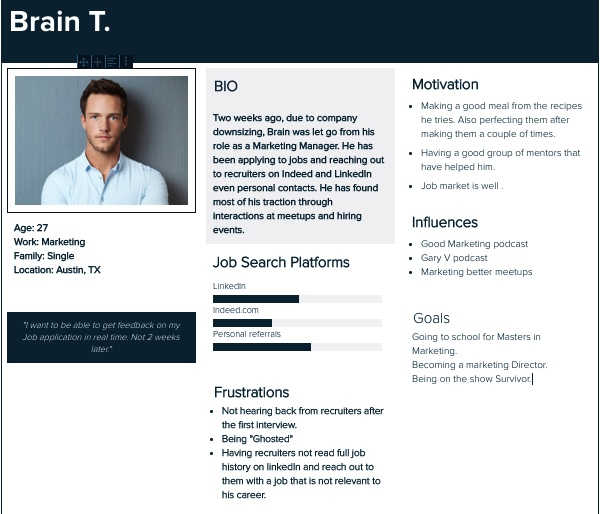
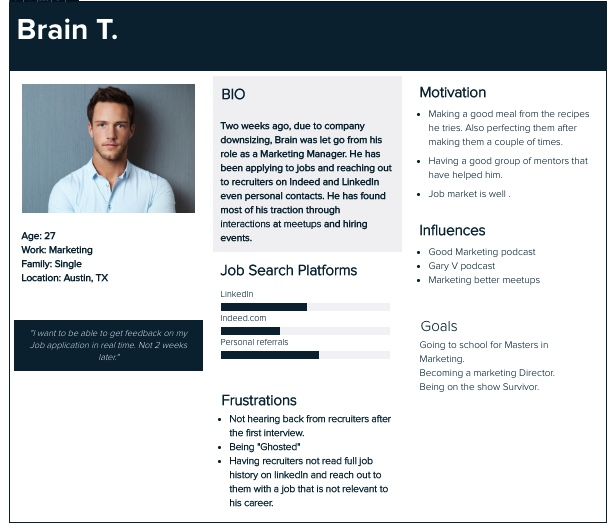
Content on Cambio page

Changed region(s): [[0.0, 0.0, 1.0, 1.0], [0.66, 0.5914, 0.9, 0.7471], [0.66, 0.4047, 0.87, 0.5603]]

diff --git a/cambio.html b/cambio.html
@@ -25,7 +25,7 @@
         <div class="links d-flex align-items-center">
           <ul class="list-group list-group-horizontal">
             <li>
-              <a href="#work">Projects</a>
+              <a href="#work">Work</a>
             </li>
             <li>
               <a href="#about">About Me</a>
@@ -37,8 +37,100 @@
         </div>
       </nav>
 
-      <div>
+      <div class="cambio-content">
+        <div id="intro">
+          <h1>Cambio</h1>
+          <h3>UX Research & UI Design</h3>
+          <img src="images/cambio_logo.png" alt="Cambio Logo">
+          <div>
+            <h2>Introduction</h2>
+            <p>In recent years, employers and job seekers have seen major changes to recruiting. Job seekers can search digital job boards, post their resumes across dozens of sites, and reach out directly to recruiters on websites like AngelList and LinkedIn. However, for recruiters, with the exception of LinkedIn where they can reach out directly to promising candidates, not much has changed. Instead of reviewing paper resumes, they are now seeing hundreds of digital resumes and profiles. With all the advances in technology, true life and personality has been left out of the hiring process. Cambio looks to change the job hunt and bring individuality into the recruitment process. In Spanish, Cambio means “change”. In an effort to change the stale process, Cambio has created a video platform to allow each job applicant to personalize their application. </p>
+          </div>
+        </div>
+
+        <div id="challenge">
+          <h2>Challenge</h2>
+          <p>A 3 week sprint we were asked to research and design an initial mockup, for the job seeker side of the mobile application, with swipe features and video recording features.  My team consisted of an engineering manager, two front-end developers, and a member of the marketing team.</p>
+        </div>
         
+        <div id="research">
+          <h2>Research</h2>
+          <h3>Explore</h3>
+          <p>Cambio was drawn to the easy swiping features being utilized in dating apps like Tinder and Bumble. They liked the ease in which a user can quickly choose between two possible interactions. I set out to understand what made the swiping interaction a powerful tool and how it could be applied to users looking for their next career opportunity.</p>
+          <h3>Listen</h3>
+          <p>I created a 15 question survey to better understand the pain points of job seekers and hiring managers. In total, 60 people were surveyed: 30 job seekers and 30 members of hiring teams.</p>
+          <h3>Synthasizes</h3>
+          <p>We created an affinity map to analyze the data from the survey. 
+          Key takeaways from job seekers:</p>
+          <ul>
+            <li>&#8227; Users said ATS systems are a dead end.</li>
+            <li>&#8227; Users said meeting an employee of a potential company at an event or meetup provides a better opportunity into their hiring process.</li>
+            <li>&#8227; Users said resumes do not adequately depict everything they have to offer an employer.</li>
+            <li>&#8227; Users are frustrated when they do not hear back from a job application.</li>
+            <li>&#8227; Users are frustrated when they do not receive valuable feedback after an interview.</li>
+          </ul>
+        </div>
+
+        <div>
+          <h2>User</h2>
+          <ul>
+            <li>Name: Brian T.</li>
+            <li>Age: 25</li>
+            <li>Location: Austin, TX.</li>
+            <li>Industry: Marketing</li>
+          </ul>
+          <img src="images/cambio_user_persona.jpg" alt="Cambio User Persona">
+          <p>In order to frame the conversation with my team, I created Brian. Two weeks ago, due to company downsizing, Brain was let go from her role as a Marketing Manager. He has been applying to jobs and reaching out to recruiters on Indeed and LinkedIn. She is receiving generic rejection letters from ATS systems and rarely does she receive any reply from recruiters.</p>
+        </div>
+
+        <div id="design-principles">
+          <h2>Design Principles</h2>
+          <div class="d-flex justify-content-between">
+            <div>
+              <h4>Empathize</h4>
+              <p>Users will feel vulnerable upon uploading a video of themselves. User information should be private and secure.</p>
+            </div>
+            <div>
+              <h4>Simple</h4>
+              <p>The signup should be free of clutter and relatively quick.Users should be applying to jobs shortly after signing up for an account. Applying to jobs should be easy.</p>
+            </div>
+            <div>
+              <h4>Empowerment</h4>
+              <p>Users should have control of their job search. Profiles should be tailored to their preferences. Users should have the ability to present more than just words on a screen.</p>
+            </div>
+          </div>
+        </div>
+
+        <div id="wireframes">
+          <h2>Wireframes</h2>
+          <h3>Taskflow</h3>
+          <div>
+            <img src="" alt="">
+            <p>We three different paths for the task flow of new users interacting with the app for the first time: Onboarding, uploading personal videos and browsing jobs.</p>
+          </div>
+          <h3>Lo-Fi</h3>
+          <div>
+            <img src="" alt="">
+            <p>We three different paths for the task flow of new users interacting with the app for the first time: Onboarding, uploading personal videos and browsing jobs.</p>
+          </div>
+        </div>
+
+        <div>
+          <h2>Style Expoloration</h2>
+          <p>After doing visual competitive analysis and doing a couple of moodboards we came up with this style tile to establish the identity of the brand and for our High fidelity mockups. Keeping our design principles in mind we wanted to come with a style that felt Empowering, Simple and Empathetic.</p>
+          <img src="" alt="">
+          <h3>Prototype & Testing</h3>
+          <p>Applying the UI elements we came up with 2 concepts that the user could identify and as their favorite and pick a winner from those 2.</p>
+          <img src="" alt="">
+          <h3>Refine & Ideate</h3>
+          <p>With each concept the user was able to stay in line with out design principle. Based on our feedback I went and identified other key concepts the could brushed up on using our design principles. Choosing the success message for creating and active profile and profile page.</p>
+        </div>
+
+        <div id="results">
+          <h3>Results</h3>
+          <img src="images/cambio_homepage.jpg" alt="Cambio home page">
+          <img src="images/cambio_aboutpage.jpg" alt="Cambio about page">
+        </div>
       </div>
         
     

diff --git a/index.html b/index.html
@@ -21,7 +21,6 @@
     <link rel="icon" type="image/png" sizes="32x32" href="./favicon-32x32.png">
     <link rel="icon" type="image/png" sizes="16x16" href="./favicon-16x16.png">
   </head>
-  <querySelector>
     <!--[if lt IE 7]>
       <p class="browsehappy">You are using an <strong>outdated</strong> browser. Please <a href="#">upgrade your browser</a> to improve your experience.</p>
     <![endif]-->
@@ -34,7 +33,7 @@
         <div class="links d-flex align-items-center">
           <ul class="list-group list-group-horizontal">
             <li>
-              <a href="#work">Projects</a>
+              <a href="#work">Work</a>
             </li>
             <li>
               <a href="#about">About Me</a>
@@ -102,6 +101,9 @@
       </div>
 
       <div id="footer">
+        <a href="index.html">
+          <svg xmlns="http://www.w3.org/2000/svg" viewBox="0 0 259.55 390.57"><title>Fergi3ink Logo</title><path d="M158.4,154.68H64.5V78.75h102V1.64H2v355.9H64.5V230.6h93.9ZM48.78,340.93h-31V18.25l31,43.89Z" transform="translate(-2.04 -1.64)"/><path d="M190.07,305.1c7.51-7.42,12.23-19.79,12.23-29.44,0-21.28-15.66-41.82-41.62-41.82-21.88,0-40.55,20.29-40.55,43.8v3.46h31.54v-3.46c0-5.94,3.65-10.64,9-10.64,5.58,0,9.87,4.7,9.87,10.64,0,6.18-3.86,13.86-11.37,13.86h-6.87v33.65h7.3c9.44,0,17.38,4.7,17.38,16.08,0,10.89-7.51,18.31-17.38,18.31-9,0-17-7.42-17-18.31v-4H112.19v4c0,28.46,21,51,47.42,51,29.39,0,48.06-24.5,48.06-49.49A47.45,47.45,0,0,0,190.07,305.1Zm-30.46-45.28a16.78,16.78,0,0,0-15.45,13.12H128.29c2.14-17.57,14.8-30.69,31.32-30.94Zm-.86,125c-20.81-.74-38.19-18.31-39-40.58h15.66c1.08,12.87,10.73,22.52,23.39,23.26Z" transform="translate(-2.04 -1.64)"/><path d="M219.54,99.72V357.91h42V99.72ZM251,345.86H230.12V253.77H251Z" transform="translate(-2.04 -1.64)"/></svg>
+        </a>
         <p>
           <a href="https://www.linkedin.com/in/samanthafergus/" target="_blank">LinkedIn</a> 
           | 

diff --git a/styles/cambio.css b/styles/cambio.css
@@ -18,6 +18,14 @@ h2 {
   font-weight: 700;
 }
 
+svg {
+  background-color: #113A83;
+  fill: #FFFFFF;
+  padding: 0.5em;
+  height: 4.25em;
+  width: 3.5em;
+}
+
 nav {
   background-color: #F5D547;
   color: #113A83;
@@ -25,13 +33,6 @@ nav {
   position: fixed;
   width: 100%;
   z-index: 5;
-}
-nav svg {
-  background-color: #113A83;
-  fill: #FFFFFF;
-  padding: 0.5em;
-  height: 4.25em;
-  width: 3.5em;
 }
 nav .links ul {
   list-style: none;
@@ -49,7 +50,48 @@ nav .links a {
 #footer {
   background-color: #F5D547;
   color: #113A83;
-  padding: 3em;
+  padding: 0 2em;
+}
+
+.cambio-content {
+  padding-top: 4em;
+}
+.cambio-content > div {
+  border-bottom: 0.25em solid #F5D547;
+  padding: 2em;
+  text-align: center;
+}
+.cambio-content ul {
+  list-style-type: none;
+  padding: 0;
+}
+
+#intro div {
+  padding: 2em;
+}
+#intro img {
+  width: 25%;
+}
+
+#challenge {
+  background-color: #F5D547;
+}
+
+#research ul {
+  text-align: left;
+  margin-left: auto;
+  margin-right: auto;
+  width: 60%;
+}
+
+#design-principles div div {
+  width: 25%;
+}
+
+#results img {
+  display: block;
+  margin-left: auto;
+  margin-right: auto;
 }
 
 /*# sourceMappingURL=cambio.css.map */

diff --git a/styles/cambio.scss b/styles/cambio.scss
@@ -1,1 +1,59 @@
 @import 'base';
+
+.cambio-content {
+  padding-top: 4em;
+
+  & > div {
+    border-bottom: $font-size--xsmall solid $color--one;
+    padding: $space--base;
+    text-align: center;
+  }
+
+  ul {
+    list-style-type: none;
+    padding: 0;
+  }
+}
+
+#intro {
+  
+  // margin: 0 $space--base;
+
+  div {
+    padding: $space--base;
+  }
+
+  img {
+    width: 25%;
+  }
+}
+
+#challenge {
+  background-color: $color--one;
+}
+
+#research {
+  ul {
+    text-align: left;
+
+    margin-left: auto;
+    margin-right: auto;
+    width: 60%;
+  }
+}
+
+#design-principles {
+  div div {
+    width: 25%;
+  }
+}
+
+#results {
+  img {
+    display: block;
+    margin-left: auto;
+    margin-right: auto;
+  }
+}
+
+

diff --git a/styles/_base.scss b/styles/_base.scss
@@ -42,6 +42,15 @@ h2 {
   font-weight: 700; 
 }
 
+svg {
+  background-color: $color--three;
+  fill: $color--white;
+  
+  padding: $space--small;
+  height: 4.25em;
+  width: 3.5em;
+}
+
 nav {
   background-color: $color--one;
   color: $color--three;
@@ -50,15 +59,6 @@ nav {
   position: fixed;
   width: 100%;
   z-index: 5;
-
-  svg {
-    background-color: $color--three;
-    fill: $color--white;
-    
-    padding: $space--small;
-    height: 4.25em;
-    width: 3.5em;
-  }
 
   .links {
     ul {
@@ -83,5 +83,5 @@ nav {
   background-color: $color--one;
   color: $color--three;
 
-  padding: 3em;
+  padding: 0 $space--base;
 }

diff --git a/styles/style.css b/styles/style.css
@@ -18,6 +18,14 @@ h2 {
   font-weight: 700;
 }
 
+svg {
+  background-color: #113A83;
+  fill: #FFFFFF;
+  padding: 0.5em;
+  height: 4.25em;
+  width: 3.5em;
+}
+
 nav {
   background-color: #F5D547;
   color: #113A83;
@@ -25,13 +33,6 @@ nav {
   position: fixed;
   width: 100%;
   z-index: 5;
-}
-nav svg {
-  background-color: #113A83;
-  fill: #FFFFFF;
-  padding: 0.5em;
-  height: 4.25em;
-  width: 3.5em;
 }
 nav .links ul {
   list-style: none;
@@ -49,7 +50,7 @@ nav .links a {
 #footer {
   background-color: #F5D547;
   color: #113A83;
-  padding: 3em;
+  padding: 0 2em;
 }
 
 body {

diff --git a/styles/style.scss b/styles/style.scss
@@ -9,8 +9,6 @@ body {
   background-size: cover;
 
   padding-top: 4em;
-  // height: 100vh;
-  // width: 100%;
 
   .image-gradient {
     background-image: linear-gradient(rgba($color--four, .8), rgba($color--three, .5));
@@ -133,20 +131,8 @@ body {
   }
 }
 
-// #contact {
-//   a {
-//     color: $color--one
-//   }
-
-//   a:hover {
-//     color: $color--two;
-//     text-decoration: underline;
-//   }
-// }
-
 #about {
   background-color: $color--five;
-  // border-top: 1em solid $color--three;
   border-bottom: $font-size--small solid $color--three;
   padding: $space--base;
 
